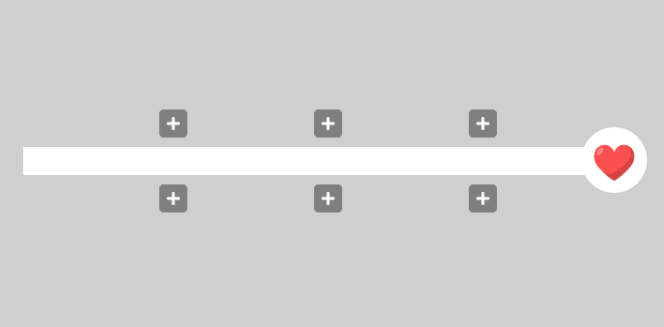
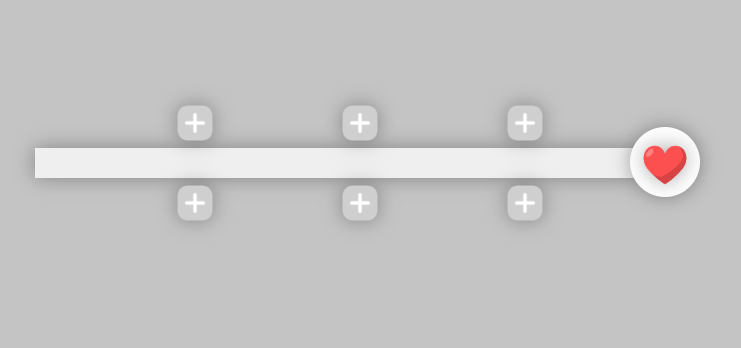
Amélioration : nouvelles technos : portée, tourExplo, et coeurBonus + fix de divers bugs et remplacement images niveaux

Changed region(s): [[0.0301, 0.2752, 0.994, 0.6728]]

diff --git a/app/src/partie/game.js b/app/src/partie/game.js
@@ -18,7 +18,7 @@ export class Partie {
         this.emplacements = []; // Liste des emplacements pour les tours
         this.towers = []; // Liste des tours
         this.projectiles = []; // Liste des projectiles
-        this.heartPV = 3; // Points de vie du coeur
+        this.heartPV = 1; // Points de vie du coeur
         
         this.canvas = document.getElementById('gameCanvas');
         this.ctx = this.canvas.getContext('2d');
@@ -170,6 +170,7 @@ export class Partie {
     }
     chargerOptionsEmplacement(divOptionsEmplacement) {
         for (const [key, value] of Object.entries(this.statTours)) {
+            if(this.modificateurs[key] == false) continue; // Si la tour n'est pas débloquée, on passe à la suivante
             const option = document.createElement('span');
             option.className = 'optionEmplacement';
             option.id = key;
@@ -403,12 +404,15 @@ export class Partie {
      */
     verifChangementVague() {
         const lancerVagueBtn = document.getElementById('lancerVagueBtn');
-        if (this.nbEnnemisMorts == this.totalEnnemis && this.niveau.vagues[this.vague - 1].derniereVague==false) {
-            this.console.ecrire("Fin de la vague " + (this.vague ));
-            this.vague++;
-            this.initialisationVague();
-            lancerVagueBtn.disabled = false; // Réactive le bouton pour la prochaine vague
+        if(this.heartPV <= 0) {
+            this.console.ecrire("Game Over ! Vous avez perdu !");
+            console.log(this.monnaies);
+            this.sauvegarder(false); // Sauvegarde l'état du jeu
             this.jeuDemarre = false; // Indique que le jeu n'est plus en cours
+            this.jeuTermine = true; // Indique que le jeu est terminé
+            lancerVagueBtn.disabled = false;
+            document.getElementById('divEcranSombre').style.display = 'flex'; // Affiche l'image de défaite
+            document.getElementById('divImgDefaite').style.display = 'flex'; // Affiche l'image de défaite
         }else if(this.nbEnnemisMorts == this.totalEnnemis && this.niveau.vagues[this.vague - 1].derniereVague==true) {
             this.console.ecrire("Fin de la dernière vague");
             this.console.ecrire("Félicitations ! Vous avez terminé ce niveau !");
@@ -419,15 +423,12 @@ export class Partie {
             lancerVagueBtn.disabled = false;
             document.getElementById('divEcranSombre').style.display = 'flex'; // Affiche l'image de victoire
             document.getElementById('divImgVictoire').style.display = 'flex'; // Affiche l'image de victoire
-        }else if(this.heartPV <= 0) {
-            this.console.ecrire("Game Over ! Vous avez perdu !");
-            console.log(this.monnaies);
-            this.sauvegarder(false); // Sauvegarde l'état du jeu
+        }else if (this.nbEnnemisMorts == this.totalEnnemis && this.niveau.vagues[this.vague - 1].derniereVague==false) {
+            this.console.ecrire("Fin de la vague " + (this.vague ));
+            this.vague++;
+            this.initialisationVague();
+            lancerVagueBtn.disabled = false; // Réactive le bouton pour la prochaine vague
             this.jeuDemarre = false; // Indique que le jeu n'est plus en cours
-            this.jeuTermine = true; // Indique que le jeu est terminé
-            lancerVagueBtn.disabled = false;
-            document.getElementById('divEcranSombre').style.display = 'flex'; // Affiche l'image de défaite
-            document.getElementById('divImgDefaite').style.display = 'flex'; // Affiche l'image de défaite
         }
     }
 

diff --git a/app/src/partie/emplacement.js b/app/src/partie/emplacement.js
@@ -61,7 +61,6 @@ export class Emplacement {
         }
     }
 
-
     actionsDuTour() {
         // Vérifie si une tour est déjà placée sur cet emplacement
         if (this.tour) {
@@ -88,6 +87,7 @@ export class Emplacement {
         if(!this.tour){
             const divOptionsEmplacement = document.querySelector('#divOptionsEmplacement');
             for(const typeTour of Object.keys(this.partie.statTours)){
+                if(this.partie.modificateurs[typeTour] == 0) continue; // Si la tour n'est pas débloquée, on passe à la suivante
                 divOptionsEmplacement.querySelector('#prix'+typeTour).textContent = this.lvl >= this.nbLvl ? 'Max' : this.partie['prix'+typeTour]; // Met à jour le prix de la tour classique
             }
             divOptionsEmplacement.style.display = 'flex'; // Masque les options de l'emplacement

diff --git a/app/src/fonctionnementPages/menuPrincipale.js b/app/src/fonctionnementPages/menuPrincipale.js
@@ -38,6 +38,7 @@ const endroitsClickable = [
     ...listeSauvegardes,
     btnMenuSauvegarder,
     btnSauvegarder,
+    // d'autres éléments sont ajoutés dans les initialisations
 ];
 //console.log(endroitsClickable);
 
@@ -157,6 +158,8 @@ function chargerNiveau() {
         divniveau.appendChild(imgNiveau);
         divniveau.appendChild(spanNiveau);
         divNiveaux.appendChild(divniveau);
+        endroitsClickable.push(divniveau);
+        endroitsClickable.push(...divniveau.children);
     }
 }
 

diff --git a/app/src/technologies/noeuds.js b/app/src/technologies/noeuds.js
@@ -193,7 +193,7 @@ export class Noeud {
             });
 
             const data = await response.text();
-            //console.log(data);
+            console.log(data);
             return data.resultat === true;//'succes';
         } catch (error) {
             console.error('Erreur récupération données :', error);

diff --git a/app/css/style.css b/app/css/style.css
@@ -27,7 +27,7 @@ body{
     overflow: hidden;
 }
 canvas {
-    background: #dfdfdf;
+    background: #c4c4c4;
     display: block;
     margin: 0;
     z-index: 2;

diff --git a/app/serv/effetsTechno.php b/app/serv/effetsTechno.php
@@ -81,3 +81,33 @@ function critDamage($action, &$technosSave, $lvl, &$modificateursSave, $listeTec
     $modificateursSave['tours']['critDamage'] = $listeTechno['critDamage']['detailLvl'][$lvl];
     return;
 }
+function tourExplosive($action, &$technosSave, $lvl, &$modificateursSave, $listeTechno){
+    $lvl = (int)$lvl;
+    if($action == 'achat'){
+        $technosSave['tourExplosive'] = $lvl;
+    }elseif($action == 'vente'){
+        $technosSave['tourExplosive'] = $lvl;
+    }
+    $modificateursSave['TourExplosive'] = $listeTechno['tourExplosive']['detailLvl'][$lvl];
+    return;
+}
+function coeurBonus($action, &$technosSave, $lvl, &$modificateursSave, $listeTechno){
+    $lvl = (int)$lvl;
+    if($action == 'achat'){
+        $technosSave['coeurBonus'] = $lvl;
+    }elseif($action == 'vente'){
+        $technosSave['coeurBonus'] = $lvl;
+    }
+    $modificateursSave['coeurBonus'] = $listeTechno['coeurBonus']['detailLvl'][$lvl];
+    return;
+}
+function portee($action, &$technosSave, $lvl, &$modificateursSave, $listeTechno){
+    $lvl = (int)$lvl;
+    if($action == 'achat'){
+        $technosSave['portee'] = $lvl;
+    }elseif($action == 'vente'){
+        $technosSave['portee'] = $lvl;
+    }
+    $modificateursSave['tours']['portee'] = $listeTechno['portee']['detailLvl'][$lvl];
+    return;
+}

diff --git a/app/serv/gestionSaves.php b/app/serv/gestionSaves.php
@@ -141,7 +141,8 @@ function creerSauvegarde(&$saves, $nom){
             "lvlUpTours"=> 0,
         ],
         "technologies"=> [],
-        "ennemisRencontres" => []
+        "ennemisRencontres" => [],
+        "toursDebloquees" => [],
     ];
     foreach($listeTechno as $nomTechno){
         $saves['saves'][$nom]['technologies'][$nomTechno['nom']] = 0;
@@ -150,6 +151,10 @@ function creerSauvegarde(&$saves, $nom){
     $niveaux = json_decode(file_get_contents('niveaux.json'), true);
     foreach ($niveaux as $niveau) {
         $saves['saves'][$nom]['niveauxCompletes'][$niveau['nom']] = false;
+    }
+    $tours = json_decode(file_get_contents('tours.json'), true);
+    foreach ($tours as $tour) {
+        $saves['saves'][$nom]['toursDebloquees'][$tour['nom']] = $tour['debloqueDepart'];
     }
     file_put_contents('saves.json', json_encode($saves, JSON_PRETTY_PRINT));
 }
